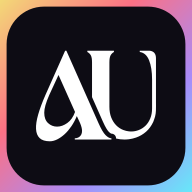
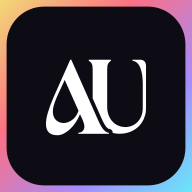
v61: AU do ícone do app no mesmo tamanho do ícone do Cortesias
Claude-Session: https://claude.ai/code/session_01164U7z7GTyXhcDWNCkrWD9

Changed region(s): [[0.1875, 0.25, 0.8125, 0.75]]

diff --git a/index.html b/index.html
@@ -5,7 +5,7 @@
 <meta name="viewport" content="width=device-width, initial-scale=1, viewport-fit=cover">
 <meta name="theme-color" content="#08080c">
 <link rel="icon" type="image/svg+xml" href="favicon.svg">
-<link rel="apple-touch-icon" href="/icons/apple-touch-icon.png?v=2">
+<link rel="apple-touch-icon" href="/icons/apple-touch-icon.png?v=3">
 <link rel="manifest" href="/manifest.webmanifest">
 <meta name="apple-mobile-web-app-capable" content="yes">
 <meta name="mobile-web-app-capable" content="yes">
